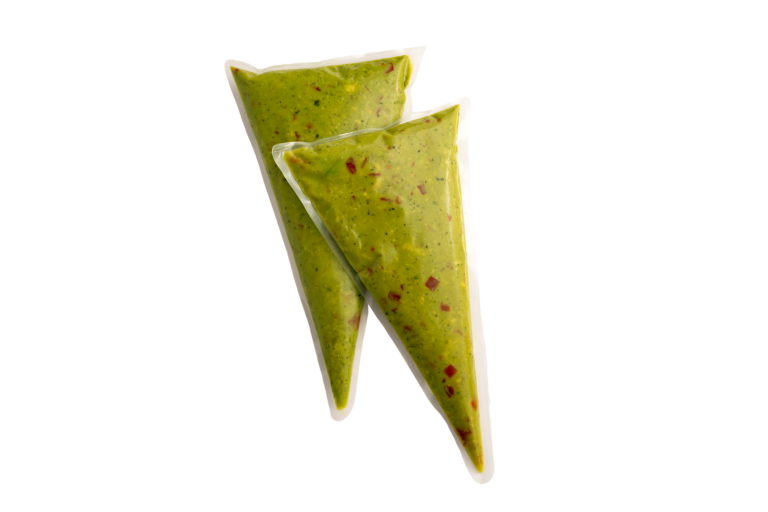
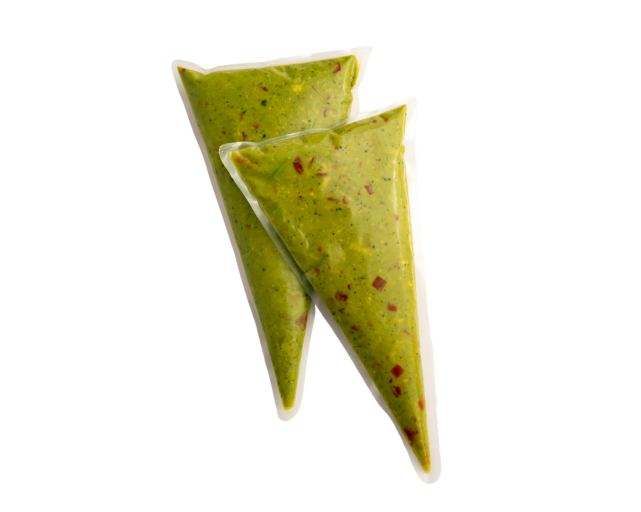
Packshots gekoppeld en passend in de tegels
De vier geuploade foto's zijn aan LA751, LA7582, LA753 en LA750 gekoppeld.
LA746 is nieuw en heeft nog geen packshot; die waarde blijft leeg en geeft
een neutraal vlak in plaats van een gebroken afbeelding.

Foto's bijgesneden op het product. Bij drie van de vier vulde het product
maar 26 tot 36 procent van het beeld, waardoor de tub in een tegel van 84
pixels een stip van 36 pixels werd. Alleen de lege ruimte eromheen is weg,
met vier procent marge; het beeld zelf is ongemoeid en de transparantie van
de PNG's is behouden.

Twee correcties in de opmaak die hierdoor aan het licht kwamen:

Het tegelvlak is wit in plaats van blauwgrijs. Drie packshots zijn
transparant en een is wit; op een blauwgrijs vlak zou die ene als witte
rechthoek in de tegel liggen. Zonder foto valt de tegel terug op blauwgrijs.

De afbeelding ligt nu absoluut in de tegel. Met width en height op 100
procent in een grid ging dit mis: de hoogte van de tegel komt uit
aspect-ratio, en een percentagehoogte telt dan niet mee. Een staande
packshot werd op breedte geschaald, stak onder de tegel uit en werd door
overflow afgesneden — de tub miste zijn onderkant op het startscherm.
Gemeten na de wijziging: elke afbeelding past binnen de tegel.

Claude-Session: https://claude.ai/code/session_012vivBSQHqRxPoDNfkg7ExK

Changed region(s): [[0.4056, 0.0938, 0.6864, 0.9688], [0.2496, 0.0938, 0.4056, 0.6562]]

diff --git a/guacamole.html b/guacamole.html
@@ -139,11 +139,21 @@
       position:relative;overflow:hidden;
       display:grid;grid-template-columns:180px 1fr;gap:18px;align-items:start;
     }
+    /* De packshots staan zelf op wit, dus het tegelvlak ook. Met de blauwgrijze
+       vulling van de kaaspagina zou je de witte foto als rechthoek in de tegel
+       zien liggen, met gekleurde banen erboven en eronder. */
     .thumb{
-      background:var(--bluegrey);border:1px solid var(--line);border-radius:var(--radius-btn);
-      aspect-ratio:1/1;display:grid;place-items:center;overflow:hidden;
+      background:#ffffff;border:1px solid var(--line);border-radius:var(--radius-btn);
+      aspect-ratio:1/1;position:relative;overflow:hidden;
     }
-    .thumb img{width:100%;height:100%;object-fit:contain;display:block;padding:6px}
+    /* Zonder foto valt de tegel terug op het rustige vlak van de kaaspagina */
+    .thumb-leeg{background:var(--bluegrey)}
+    /* De afbeelding wordt absoluut in de tegel gelegd. Met width/height:100% in
+       een grid ging dit mis: de hoogte van de tegel komt uit aspect-ratio, en
+       een percentagehoogte telt dan niet, waardoor een staande packshot op
+       breedte werd geschaald, onder de tegel uitstak en werd afgesneden. Door
+       inset ligt de hoogte wel vast en past object-fit hem netjes in. */
+    .thumb img{position:absolute;inset:6px;width:calc(100% - 12px);height:calc(100% - 12px);object-fit:contain;display:block}
     .thumb-leeg{font-size:40px;color:#c9d2cb}
     /* Percentage staat naast de titel: scheelt een hele kolom breedte */
     .rank{
@@ -359,15 +369,15 @@
        PRODUCTAFBEELDINGEN
        Deze bestanden moeten in dezelfde map staan als dit HTML-bestand.
        Een lege waarde geeft automatisch een neutraal vlak in plaats van een
-       gebroken afbeelding, dus de keuzehulp werkt ook zonder foto's.
-       TODO: zet de packshots in de map en vul de bestandsnamen hieronder in.
+       gebroken afbeelding, dus de keuzehulp werkt ook zonder foto.
+       LA746 is nieuw en heeft nog geen packshot; die staat daarom leeg.
        ======================================================================= */
     const PRODUCT_IMAGES = {
-      la751:  "",
-      la7582: "",
-      la753:  "",
-      la750:  "",
-      la746:  ""
+      la751:  "guacamole-uhp-authentic-zakken-la-streetfood.png",
+      la7582: "spuitzak-guacamole-la-streetfood.png",
+      la753:  "guacamole-cups-la-streetfood.jpg",
+      la750:  "guacamole-bakjes-la-streetfood.png",
+      la746:  ""   // TODO: nog geen foto van de tub van 900 gram uit Peru
     };
 
     // Geen loading="lazy": in een iframe waarvan de ouder de hoogte bepaalt,
